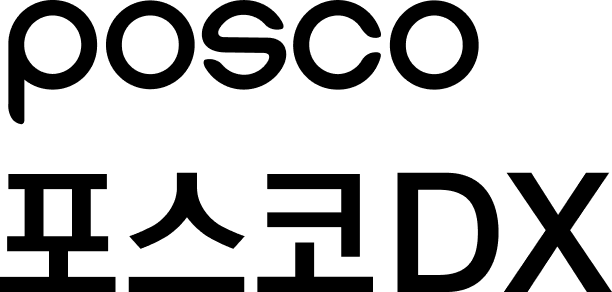
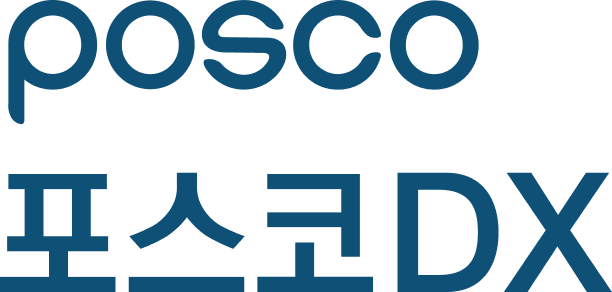
포스코 DX 로고 브랜드 컬러(네이비) 버전으로 교체

diff --git a/index.html b/index.html
@@ -5,7 +5,7 @@
 <meta name="viewport" content="width=device-width, initial-scale=1">
 <title>(주)와이씨앤 | 스마트 통합관제 솔루션</title>
 <link rel="stylesheet" href="https://cdn.jsdelivr.net/gh/orioncactus/pretendard@v1.3.9/dist/web/static/pretendard.min.css">
-<link rel="stylesheet" href="css/style.css?v=202608311501">
+<link rel="stylesheet" href="css/style.css?v=202608311549">
 </head>
 <body>
 
@@ -120,7 +120,7 @@
 <script>
 new daum.roughmap.Lander({ timestamp: "1662599661679", key: "2bnoo", mapWidth: "1200", mapHeight: "440" }).render();
 </script>
-<script src="js/notice.js?v=202608311501"></script>
-<script src="js/script.js?v=202608311501"></script>
+<script src="js/notice.js?v=202608311549"></script>
+<script src="js/script.js?v=202608311549"></script>
 </body>
 </html>

diff --git a/admin.html b/admin.html
@@ -6,7 +6,7 @@
 <meta name="robots" content="noindex, nofollow">
 <title>공지사항 작성 | (주)와이씨앤</title>
 <link rel="stylesheet" href="https://cdn.jsdelivr.net/gh/orioncactus/pretendard@v1.3.9/dist/web/static/pretendard.min.css">
-<link rel="stylesheet" href="css/style.css?v=202608311501">
+<link rel="stylesheet" href="css/style.css?v=202608311549">
 </head>
 <body>
 
@@ -94,8 +94,8 @@
 
 <div data-include="partials/footer.html"></div>
 
-<script src="js/notice.js?v=202608311501"></script>
-<script src="js/admin.js?v=202608311501"></script>
-<script src="js/script.js?v=202608311501"></script>
+<script src="js/notice.js?v=202608311549"></script>
+<script src="js/admin.js?v=202608311549"></script>
+<script src="js/script.js?v=202608311549"></script>
 </body>
 </html>

diff --git a/notice.html b/notice.html
@@ -5,7 +5,7 @@
 <meta name="viewport" content="width=device-width, initial-scale=1">
 <title>공지사항 | (주)와이씨앤</title>
 <link rel="stylesheet" href="https://cdn.jsdelivr.net/gh/orioncactus/pretendard@v1.3.9/dist/web/static/pretendard.min.css">
-<link rel="stylesheet" href="css/style.css?v=202608311501">
+<link rel="stylesheet" href="css/style.css?v=202608311549">
 </head>
 <body>
 
@@ -38,7 +38,7 @@
 
 <div data-include="partials/footer.html"></div>
 
-<script src="js/notice.js?v=202608311501"></script>
-<script src="js/script.js?v=202608311501"></script>
+<script src="js/notice.js?v=202608311549"></script>
+<script src="js/script.js?v=202608311549"></script>
 </body>
 </html>

diff --git a/location.html b/location.html
@@ -5,7 +5,7 @@
 <meta name="viewport" content="width=device-width, initial-scale=1">
 <title>오시는 길 | (주)와이씨앤</title>
 <link rel="stylesheet" href="https://cdn.jsdelivr.net/gh/orioncactus/pretendard@v1.3.9/dist/web/static/pretendard.min.css">
-<link rel="stylesheet" href="css/style.css?v=202608311501">
+<link rel="stylesheet" href="css/style.css?v=202608311549">
 </head>
 <body>
 
@@ -40,6 +40,6 @@
 new daum.roughmap.Lander({ timestamp: "1662599661679", key: "2bnoo", mapWidth: "1200", mapHeight: "440" }).render();
 </script>
 
-<script src="js/script.js?v=202608311501"></script>
+<script src="js/script.js?v=202608311549"></script>
 </body>
 </html>

diff --git a/3szone.html b/3szone.html
@@ -5,7 +5,7 @@
 <meta name="viewport" content="width=device-width, initial-scale=1">
 <title>안전 통합관제 플랫폼 | (주)와이씨앤</title>
 <link rel="stylesheet" href="https://cdn.jsdelivr.net/gh/orioncactus/pretendard@v1.3.9/dist/web/static/pretendard.min.css">
-<link rel="stylesheet" href="css/style.css?v=202608311501">
+<link rel="stylesheet" href="css/style.css?v=202608311549">
 </head>
 <body class="s3-page">
 
@@ -66,6 +66,6 @@
 
 <div data-include="partials/footer.html"></div>
 
-<script src="js/script.js?v=202608311501"></script>
+<script src="js/script.js?v=202608311549"></script>
 </body>
 </html>

diff --git a/system-attendance.html b/system-attendance.html
@@ -5,7 +5,7 @@
 <meta name="viewport" content="width=device-width, initial-scale=1">
 <title>스마트 출역관리 시스템 | (주)와이씨앤</title>
 <link rel="stylesheet" href="https://cdn.jsdelivr.net/gh/orioncactus/pretendard@v1.3.9/dist/web/static/pretendard.min.css">
-<link rel="stylesheet" href="css/style.css?v=202608311501">
+<link rel="stylesheet" href="css/style.css?v=202608311549">
 </head>
 <body>
 
@@ -37,6 +37,6 @@
 
 <div data-include="partials/footer.html"></div>
 
-<script src="js/script.js?v=202608311501"></script>
+<script src="js/script.js?v=202608311549"></script>
 </body>
 </html>

diff --git a/system-sensor.html b/system-sensor.html
@@ -5,7 +5,7 @@
 <meta name="viewport" content="width=device-width, initial-scale=1">
 <title>스마트 센서관제 시스템 | (주)와이씨앤</title>
 <link rel="stylesheet" href="https://cdn.jsdelivr.net/gh/orioncactus/pretendard@v1.3.9/dist/web/static/pretendard.min.css">
-<link rel="stylesheet" href="css/style.css?v=202608311501">
+<link rel="stylesheet" href="css/style.css?v=202608311549">
 </head>
 <body>
 
@@ -37,6 +37,6 @@
 
 <div data-include="partials/footer.html"></div>
 
-<script src="js/script.js?v=202608311501"></script>
+<script src="js/script.js?v=202608311549"></script>
 </body>
 </html>

diff --git a/system-video.html b/system-video.html
@@ -5,7 +5,7 @@
 <meta name="viewport" content="width=device-width, initial-scale=1">
 <title>스마트 영상관제 시스템 | (주)와이씨앤</title>
 <link rel="stylesheet" href="https://cdn.jsdelivr.net/gh/orioncactus/pretendard@v1.3.9/dist/web/static/pretendard.min.css">
-<link rel="stylesheet" href="css/style.css?v=202608311501">
+<link rel="stylesheet" href="css/style.css?v=202608311549">
 </head>
 <body>
 
@@ -37,6 +37,6 @@
 
 <div data-include="partials/footer.html"></div>
 
-<script src="js/script.js?v=202608311501"></script>
+<script src="js/script.js?v=202608311549"></script>
 </body>
 </html>

diff --git a/system-process.html b/system-process.html
@@ -5,7 +5,7 @@
 <meta name="viewport" content="width=device-width, initial-scale=1">
 <title>건설공정 관리 시스템 | (주)와이씨앤</title>
 <link rel="stylesheet" href="https://cdn.jsdelivr.net/gh/orioncactus/pretendard@v1.3.9/dist/web/static/pretendard.min.css">
-<link rel="stylesheet" href="css/style.css?v=202608311501">
+<link rel="stylesheet" href="css/style.css?v=202608311549">
 </head>
 <body>
 
@@ -37,6 +37,6 @@
 
 <div data-include="partials/footer.html"></div>
 
-<script src="js/script.js?v=202608311501"></script>
+<script src="js/script.js?v=202608311549"></script>
 </body>
 </html>

diff --git a/system-twin.html b/system-twin.html
@@ -5,7 +5,7 @@
 <meta name="viewport" content="width=device-width, initial-scale=1">
 <title>디지털 트윈 시스템 | (주)와이씨앤</title>
 <link rel="stylesheet" href="https://cdn.jsdelivr.net/gh/orioncactus/pretendard@v1.3.9/dist/web/static/pretendard.min.css">
-<link rel="stylesheet" href="css/style.css?v=202608311501">
+<link rel="stylesheet" href="css/style.css?v=202608311549">
 </head>
 <body>
 
@@ -37,6 +37,6 @@
 
 <div data-include="partials/footer.html"></div>
 
-<script src="js/script.js?v=202608311501"></script>
+<script src="js/script.js?v=202608311549"></script>
 </body>
 </html>

diff --git a/system-location.html b/system-location.html
@@ -5,7 +5,7 @@
 <meta name="viewport" content="width=device-width, initial-scale=1">
 <title>위치 관제 시스템 | (주)와이씨앤</title>
 <link rel="stylesheet" href="https://cdn.jsdelivr.net/gh/orioncactus/pretendard@v1.3.9/dist/web/static/pretendard.min.css">
-<link rel="stylesheet" href="css/style.css?v=202608311501">
+<link rel="stylesheet" href="css/style.css?v=202608311549">
 </head>
 <body>
 
@@ -37,6 +37,6 @@
 
 <div data-include="partials/footer.html"></div>
 
-<script src="js/script.js?v=202608311501"></script>
+<script src="js/script.js?v=202608311549"></script>
 </body>
 </html>

diff --git a/patent.html b/patent.html
@@ -5,7 +5,7 @@
 <meta name="viewport" content="width=device-width, initial-scale=1">
 <title>특허 및 인증 | (주)와이씨앤</title>
 <link rel="stylesheet" href="https://cdn.jsdelivr.net/gh/orioncactus/pretendard@v1.3.9/dist/web/static/pretendard.min.css">
-<link rel="stylesheet" href="css/style.css?v=202608311501">
+<link rel="stylesheet" href="css/style.css?v=202608311549">
 </head>
 <body>
 
@@ -48,6 +48,6 @@
 
 <div data-include="partials/footer.html"></div>
 
-<script src="js/script.js?v=202608311501"></script>
+<script src="js/script.js?v=202608311549"></script>
 </body>
 </html>
